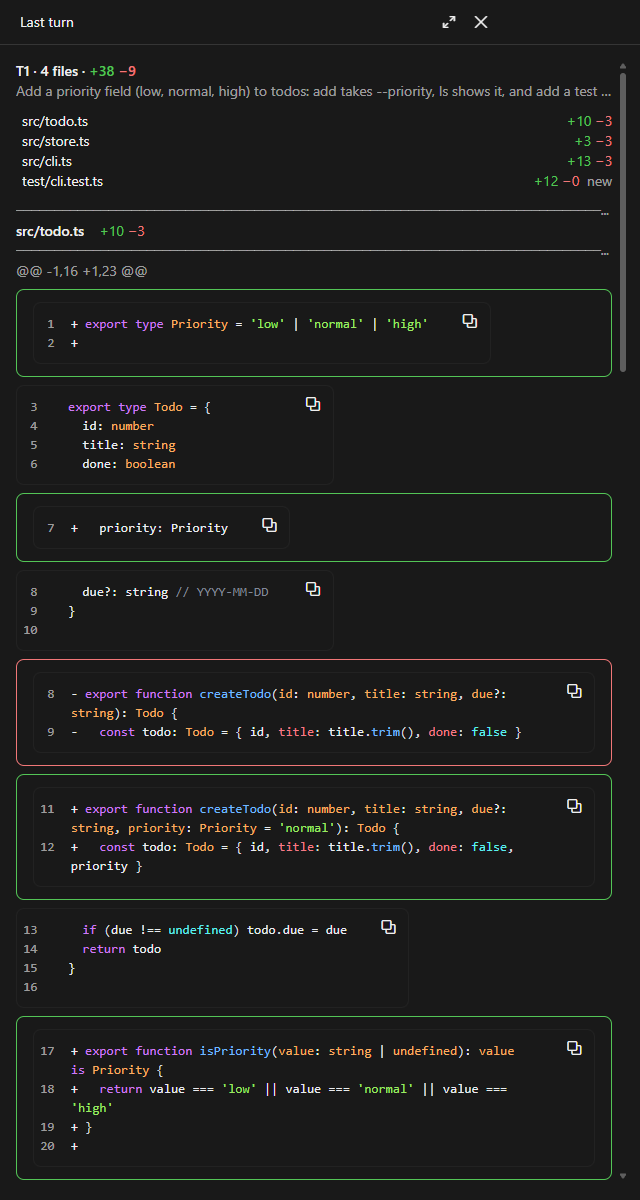
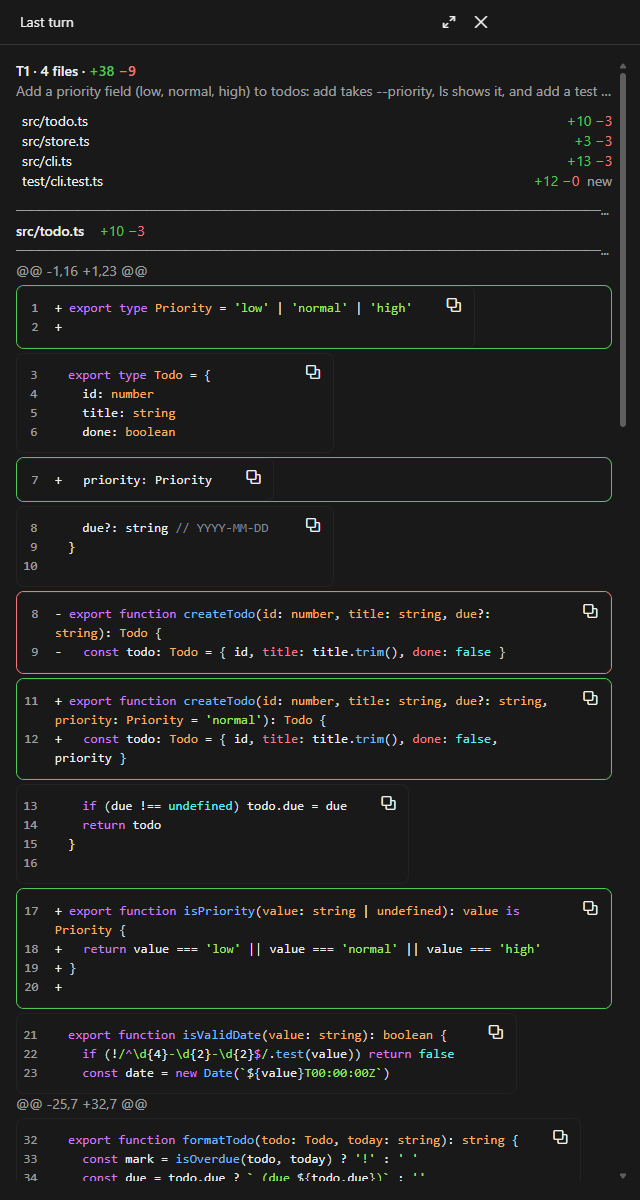
Tighten selectableDiffs frames: no padding, half the gap
Desktop pads a bordered Box by default (12 px down, 16 px across), which
left the red and green frames well clear of their code. They now set
paddingX and paddingY to 0, so each frame sits on its code block. The
gap between a hunk's blocks drops from xs (8 px) to 4 px: a number is
counted in half lines in a pane, so gap={0.4}. That still keeps a red
frame's edge off a green one's. The screenshot shows the tighter frames.

diff --git a/hooks/register.tsx b/hooks/register.tsx
@@ -828,15 +828,22 @@ export const register: Register = (on, options) => {
               ))}
               {framed !== undefined
                 ? framed.hunks.map(hunk => (
-                    // the gap keeps a red frame's edge off a green one's, which together read as one yellow line
-                    <Box flexDirection="column" gap="xs">
+                    // the gap keeps a red frame's edge off a green one's, which together read as one yellow line;
+                    // Desktop counts a number in half lines: 0.4 of a 10 px half line is 4 px, half its smallest step (xs)
+                    <Box flexDirection="column" gap={0.4}>
                       <Text dimColor>{hunk.header}</Text>
                       {hunk.runs.map(run => {
                         // the marker is part of the code, so a copy takes it too: Desktop's gutter takes nothing of a mod's
                         const source = clean(run.lines.map(line => `${run.kind} ${line}`).join('\n'))
                         const code = <Code path={file.path} startLine={run.start} source={source} />
+                        // Desktop pads a frame unless told not to: the frame hugs the code
                         return run.kind === ' ' ? code : (
-                          <Box borderStyle="single" borderColor={run.kind === '-' ? 'error' : 'success'}>
+                          <Box
+                            borderStyle="single"
+                            borderColor={run.kind === '-' ? 'error' : 'success'}
+                            paddingX={0}
+                            paddingY={0}
+                          >
                             {code}
                           </Box>
                         )
